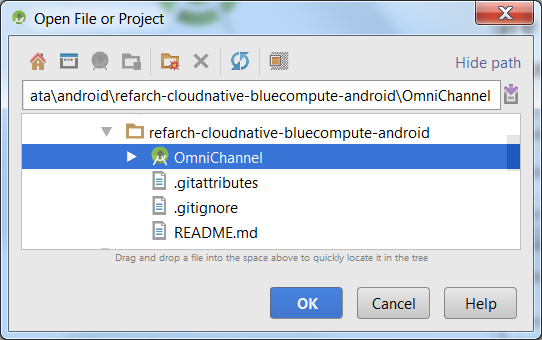
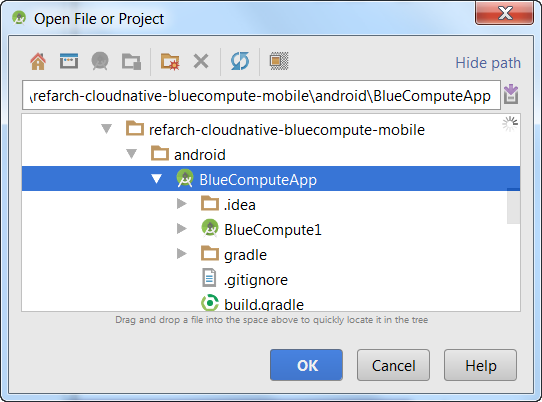
fix readme

diff --git a/README.md b/README.md
@@ -112,10 +112,10 @@ Follow these steps to load the sample Android project into Android Studio. This 
 
 1. Clone this git repository
 
-        git clone https://github.com/vbudi000/refarch-cloudnative-bluecompute-android
+        git clone https://github.com/ibm-cloud-architecture/refarch-cloudnative-bluecompute-mobile
 2. Open Android Studio; from the initial window, select __Open an existing Android Studio__ project.
 ![android-studio-1.png](static/imgs/android-studio-1.png)
-3. Choose the directory of `refarch-cloudnative-bluecompute-android\OmniChannel`
+3. Choose the directory of `refarch-cloudnative-bluecompute-mobile\android\BlueComputeApp`
 ![android-studio-2.png](static/imgs/android-studio-2-open-OmniChannel.png)
 3. Edit the BlueCompute1\src\main\assets\config.properties file to match your API Connect URL and client ID
 ![android-studio-3.png](static/imgs/android-studio-3-config-properties.png)
